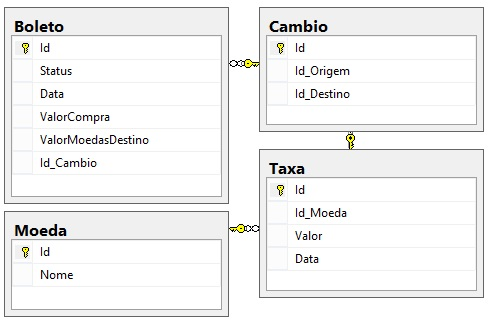
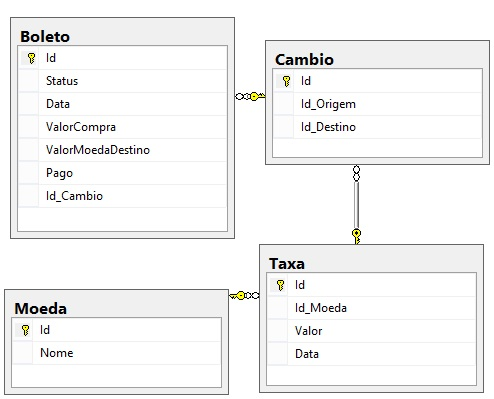
Modificações no .tex e job MS-SQL

Changed region(s): [[0.0, 0.031, 1.0, 0.9907], [0.0612, 0.1858, 0.3061, 0.5263]]

diff --git a/tarefa2.tex b/tarefa2.tex
@@ -280,6 +280,15 @@ O MS SQL Server é um SGBD - sistema gerenciador de Banco de dados relacional de
 	\href{http://trabalho2db.azurewebsites.net/Currency/Get?exchangeRate=}{http://trabalho2db.azurewebsites.net/Currency/Get?exchangeRate=} \\ \\
 	Exemplo de uso:\href{http://trabalho2db.azurewebsites.net/Currency/Get?exchangeRate=USD}{http://trabalho2db.azurewebsites.net/Currency/Get?exchangeRate=USD} \\ \\
 
+	Criamos o stored procedure AtualizaTaxa, que para toda entrada na tabela Moeda envia o valor seu nome para a aplicação web, e cria uma nova entrada em taxa com seu horário da atualização e valor obtido.
+
+	O próximo passo foi criar o stored procedure AtualizaTaxaDeCambio para associar todas as taxas obtidas em origens e destinos, por exemplo supondo que temos no banco de dados a taxa das seguintes moedas: USD, EUR e BRL vamos obter em Cambio as seguintes combinações: USD-USD, USD-EUR, USD-BRL, EUR-USD, EUR-EUR, EUR-BRL, BRL-USD, BRL-EUR, BRL-BRL.
+
+	Os dois stored procedures acima são executados de cinco em cinco minutos. SQL Server não suporta triggers usando tempo diretamente, mas podemos fazer uma construção equivalente usando Jobs para executar os stored procedures na frequência desejada.
+
+	Finalmente, usando um trigger, quando o usuário realiza uma compra, é especificado o valor em moedas destino que deseja comprar, usando essa informação e as informações de cambio mais recentes podemos calcular o valor da compra. O status da compra fica pendente até o usuário pagar o valor da compra, e nesse caso o status passa para finalizado, ou então até dois dias após o início da transação e nesse caso usamos um job para alterar o status do boleto para cancelado.
+
+
   \subsection{Resultados}
     \subsubsection{MySQL (Manzo \& Gordo)}
     \subsubsection{SQLServer (Caio e Gabriel)}
